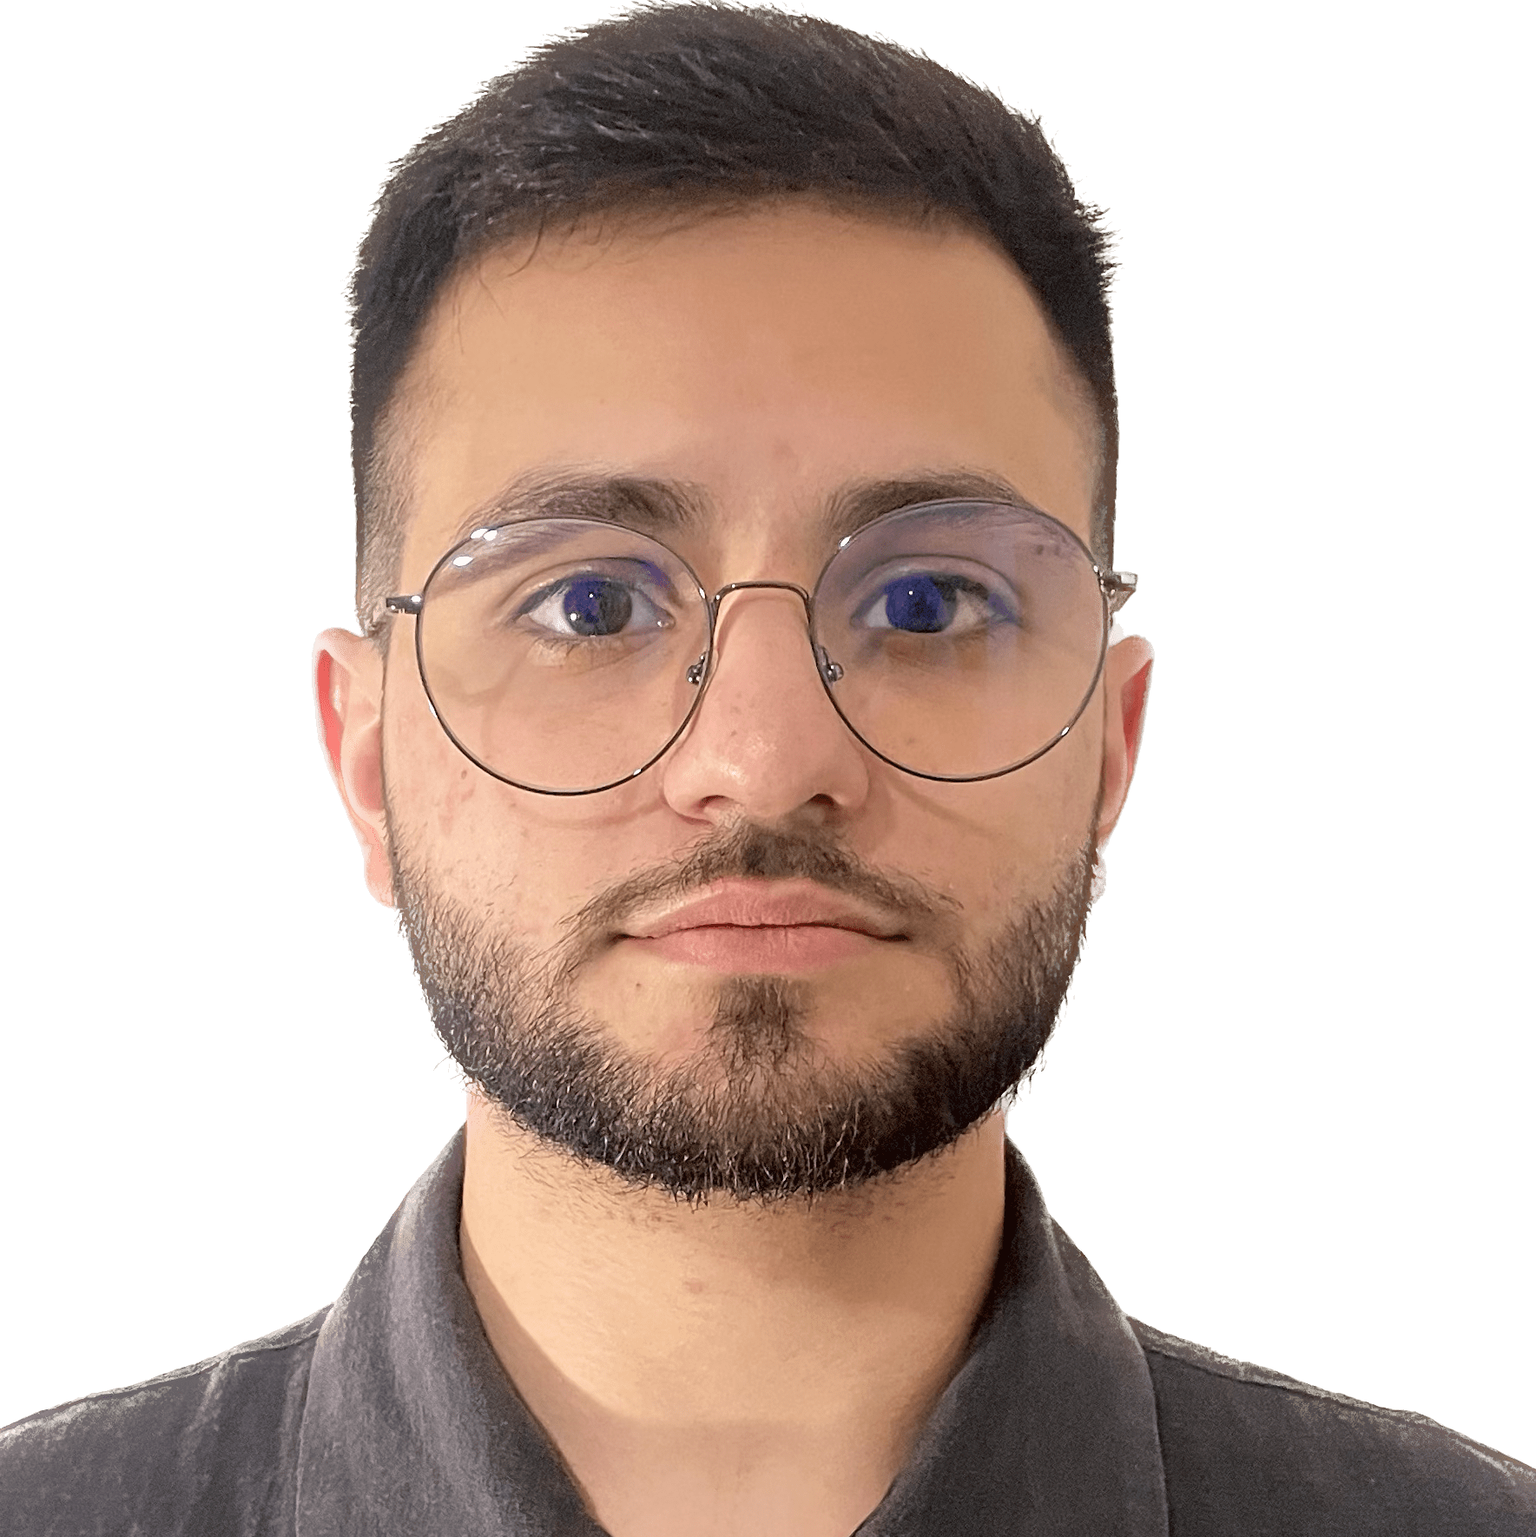
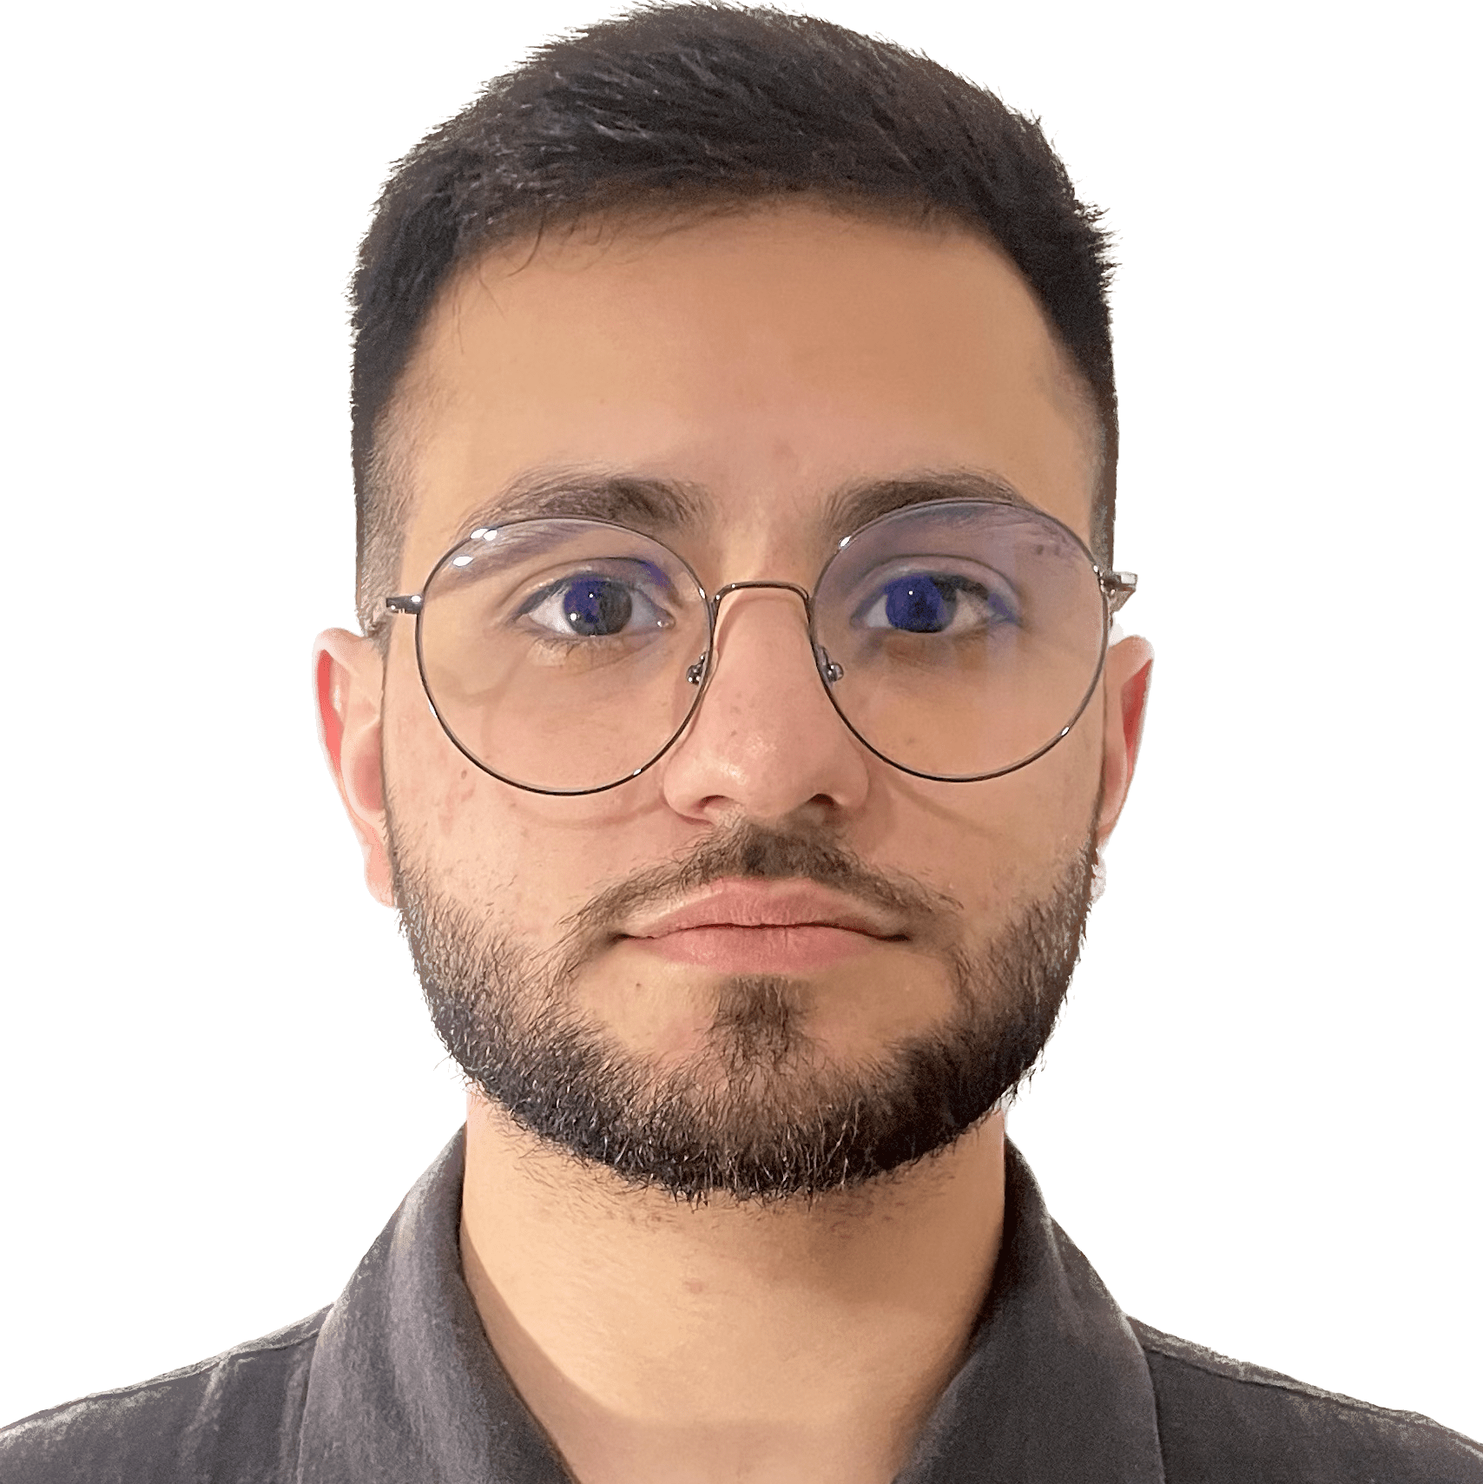
Update the responsive of navbar and add a border to profile image

diff --git a/src/components/tech-stack.tsx b/src/components/tech-stack.tsx
@@ -33,7 +33,8 @@ function TechStack() {
           <div className="flex">
             <button
               className="relative p-1 isolation-auto z-10 rounded-md
-    before:absolute before:w-full before:transition-all before:duration-400 before:hover:w-full before:-right-full before:hover:right-0 before:rounded-full  before:bg-violet-500 before:dark:bg-violet-400 before:-z-10  before:aspect-square before:hover:scale-150 overflow-hidden before:hover:duration-400"
+                before:absolute before:w-full before:transition-all before:duration-400 before:hover:w-full before:-right-full before:hover:right-0 before:rounded-full
+              before:bg-violet-500 before:dark:bg-violet-400 before:-z-10  before:aspect-square before:hover:scale-150 overflow-hidden before:hover:duration-400"
               onClick={() => setSelectedTech('html')}
             >
               <Image
@@ -47,7 +48,8 @@ function TechStack() {
             <Separator orientation="vertical" className="h-7 mx-1" />
             <button
               className="relative p-1 isolation-auto z-10 rounded-md
-    before:absolute before:w-full before:transition-all before:duration-400 before:hover:w-full before:-right-full before:hover:right-0 before:rounded-full  before:bg-violet-500 before:dark:bg-violet-400 before:-z-10  before:aspect-square before:hover:scale-150 overflow-hidden before:hover:duration-400"
+                before:absolute before:w-full before:transition-all before:duration-400 before:hover:w-full before:-right-full before:hover:right-0 before:rounded-full
+              before:bg-violet-500 before:dark:bg-violet-400 before:-z-10  before:aspect-square before:hover:scale-150 overflow-hidden before:hover:duration-400"
               onClick={() => setSelectedTech('js')}
             >
               <Image
@@ -61,7 +63,8 @@ function TechStack() {
             <Separator orientation="vertical" className="h-7 mx-1" />
             <button
               className="relative p-1 isolation-auto z-10 rounded-md
-    before:absolute before:w-full before:transition-all before:duration-400 before:hover:w-full before:-right-full before:hover:right-0 before:rounded-full  before:bg-violet-500 before:dark:bg-violet-400 before:-z-10  before:aspect-square before:hover:scale-150 overflow-hidden before:hover:duration-400"
+                before:absolute before:w-full before:transition-all before:duration-400 before:hover:w-full before:-right-full before:hover:right-0 before:rounded-full
+              before:bg-violet-500 before:dark:bg-violet-400 before:-z-10  before:aspect-square before:hover:scale-150 overflow-hidden before:hover:duration-400"
               onClick={() => setSelectedTech('tailwind')}
             >
               <Image
@@ -75,7 +78,8 @@ function TechStack() {
             <Separator orientation="vertical" className="h-7 mx-1" />
             <button
               className="relative p-1 isolation-auto z-10 rounded-md
-    before:absolute before:w-full before:transition-all before:duration-400 before:hover:w-full before:-right-full before:hover:right-0 before:rounded-full  before:bg-violet-500 before:dark:bg-violet-400 before:-z-10  before:aspect-square before:hover:scale-150 overflow-hidden before:hover:duration-400"
+                before:absolute before:w-full before:transition-all before:duration-400 before:hover:w-full before:-right-full before:hover:right-0 before:rounded-full
+              before:bg-violet-500 before:dark:bg-violet-400 before:-z-10  before:aspect-square before:hover:scale-150 overflow-hidden before:hover:duration-400"
               onClick={() => setSelectedTech('react')}
             >
               <Image
@@ -89,7 +93,8 @@ function TechStack() {
             <Separator orientation="vertical" className="h-7 mx-1" />
             <button
               className="relative p-1 isolation-auto z-10 rounded-md
-    before:absolute before:w-full before:transition-all before:duration-400 before:hover:w-full before:-right-full before:hover:right-0 before:rounded-full  before:bg-violet-500 before:dark:bg-violet-400 before:-z-10  before:aspect-square before:hover:scale-150 overflow-hidden before:hover:duration-400"
+                before:absolute before:w-full before:transition-all before:duration-400 before:hover:w-full before:-right-full before:hover:right-0 before:rounded-full 
+              before:bg-violet-500 before:dark:bg-violet-400 before:-z-10  before:aspect-square before:hover:scale-150 overflow-hidden before:hover:duration-400"
               onClick={() => setSelectedTech('node')}
             >
               <Image
@@ -103,7 +108,8 @@ function TechStack() {
             <Separator orientation="vertical" className="h-7 mx-1" />
             <button
               className="relative p-1 isolation-auto z-10 rounded-md
-    before:absolute before:w-full before:transition-all before:duration-400 before:hover:w-full before:-right-full before:hover:right-0 before:rounded-full  before:bg-violet-500 before:dark:bg-violet-400 before:-z-10  before:aspect-square before:hover:scale-150 overflow-hidden before:hover:duration-400"
+                before:absolute before:w-full before:transition-all before:duration-400 before:hover:w-full before:-right-full before:hover:right-0 before:rounded-full 
+              before:bg-violet-500 before:dark:bg-violet-400 before:-z-10  before:aspect-square before:hover:scale-150 overflow-hidden before:hover:duration-400"
               onClick={() => setSelectedTech('sql')}
             >
               <Image
@@ -117,7 +123,8 @@ function TechStack() {
             <Separator orientation="vertical" className="h-7 mx-1" />
             <button
               className="relative p-1 isolation-auto z-10 rounded-md
-    before:absolute before:w-full before:transition-all before:duration-400 before:hover:w-full before:-right-full before:hover:right-0 before:rounded-full  before:bg-violet-500 before:dark:bg-violet-400 before:-z-10  before:aspect-square before:hover:scale-150 overflow-hidden before:hover:duration-400"
+                before:absolute before:w-full before:transition-all before:duration-400 before:hover:w-full before:-right-full before:hover:right-0 before:rounded-full
+              before:bg-violet-500 before:dark:bg-violet-400 before:-z-10  before:aspect-square before:hover:scale-150 overflow-hidden before:hover:duration-400"
               onClick={() => setSelectedTech('git')}
             >
               <Image
@@ -132,7 +139,8 @@ function TechStack() {
           <div className="mt-1 flex">
             <button
               className="relative p-1 isolation-auto z-10 rounded-md
-    before:absolute before:w-full before:transition-all before:duration-400 before:hover:w-full before:-right-full before:hover:right-0 before:rounded-full  before:bg-violet-500 before:dark:bg-violet-400 before:-z-10  before:aspect-square before:hover:scale-150 overflow-hidden before:hover:duration-400"
+                before:absolute before:w-full before:transition-all before:duration-400 before:hover:w-full before:-right-full before:hover:right-0 before:rounded-full
+              before:bg-violet-500 before:dark:bg-violet-400 before:-z-10  before:aspect-square before:hover:scale-150 overflow-hidden before:hover:duration-400"
               onClick={() => setSelectedTech('css')}
             >
               <Image
@@ -146,7 +154,8 @@ function TechStack() {
             <Separator orientation="vertical" className="h-7 mx-1" />
             <button
               className="relative p-1 isolation-auto z-10 rounded-md
-    before:absolute before:w-full before:transition-all before:duration-400 before:hover:w-full before:-right-full before:hover:right-0 before:rounded-full  before:bg-violet-500 before:dark:bg-violet-400 before:-z-10  before:aspect-square before:hover:scale-150 overflow-hidden before:hover:duration-400"
+                before:absolute before:w-full before:transition-all before:duration-400 before:hover:w-full before:-right-full before:hover:right-0 before:rounded-full
+              before:bg-violet-500 before:dark:bg-violet-400 before:-z-10  before:aspect-square before:hover:scale-150 overflow-hidden before:hover:duration-400"
               onClick={() => setSelectedTech('ts')}
             >
               <Image
@@ -160,7 +169,8 @@ function TechStack() {
             <Separator orientation="vertical" className="h-7 mx-1" />
             <button
               className="relative p-1 isolation-auto z-10 rounded-md
-    before:absolute before:w-full before:transition-all before:duration-400 before:hover:w-full before:-right-full before:hover:right-0 before:rounded-full  before:bg-violet-500 before:dark:bg-violet-400 before:-z-10  before:aspect-square before:hover:scale-150 overflow-hidden before:hover:duration-400"
+                before:absolute before:w-full before:transition-all before:duration-400 before:hover:w-full before:-right-full before:hover:right-0 before:rounded-full
+              before:bg-violet-500 before:dark:bg-violet-400 before:-z-10  before:aspect-square before:hover:scale-150 overflow-hidden before:hover:duration-400"
               onClick={() => setSelectedTech('sass')}
             >
               <div>
@@ -176,7 +186,8 @@ function TechStack() {
             <Separator orientation="vertical" className="h-7 mx-1" />
             <button
               className="relative p-1 isolation-auto z-10 rounded-md
-    before:absolute before:w-full before:transition-all before:duration-400 before:hover:w-full before:-right-full before:hover:right-0 before:rounded-full  before:bg-violet-500 before:dark:bg-violet-400 before:-z-10  before:aspect-square before:hover:scale-150 overflow-hidden before:hover:duration-400"
+                before:absolute before:w-full before:transition-all before:duration-400 before:hover:w-full before:-right-full before:hover:right-0 before:rounded-full
+                before:bg-violet-500 before:dark:bg-violet-400 before:-z-10  before:aspect-square before:hover:scale-150 overflow-hidden before:hover:duration-400"
               onClick={() => setSelectedTech('next')}
             >
               <Image
@@ -190,7 +201,8 @@ function TechStack() {
             <Separator orientation="vertical" className="h-7 mx-1" />
             <button
               className="relative p-1 isolation-auto z-10 rounded-md
-    before:absolute before:w-full before:transition-all before:duration-400 before:hover:w-full before:-right-full before:hover:right-0 before:rounded-full  before:bg-violet-500 before:dark:bg-violet-400 before:-z-10  before:aspect-square before:hover:scale-150 overflow-hidden before:hover:duration-400"
+                before:absolute before:w-full before:transition-all before:duration-400 before:hover:w-full before:-right-full before:hover:right-0 before:rounded-full
+                before:bg-violet-500 before:dark:bg-violet-400 before:-z-10  before:aspect-square before:hover:scale-150 overflow-hidden before:hover:duration-400"
               onClick={() => setSelectedTech('nest')}
             >
               <Image
@@ -204,7 +216,8 @@ function TechStack() {
             <Separator orientation="vertical" className="h-7 mx-1" />
             <button
               className="relative p-1 isolation-auto z-10 rounded-md
-    before:absolute before:w-full before:transition-all before:duration-400 before:hover:w-full before:-right-full before:hover:right-0 before:rounded-full  before:bg-violet-500 before:dark:bg-violet-400 before:-z-10  before:aspect-square before:hover:scale-150 overflow-hidden before:hover:duration-400"
+                before:absolute before:w-full before:transition-all before:duration-400 before:hover:w-full before:-right-full before:hover:right-0 before:rounded-full
+                before:bg-violet-500 before:dark:bg-violet-400 before:-z-10  before:aspect-square before:hover:scale-150 overflow-hidden before:hover:duration-400"
               onClick={() => setSelectedTech('mysql')}
             >
               <Image
@@ -218,7 +231,8 @@ function TechStack() {
             <Separator orientation="vertical" className="h-7 mx-1" />
             <button
               className="relative p-1 isolation-auto z-10 rounded-md
-    before:absolute before:w-full before:transition-all before:duration-400 before:hover:w-full before:-right-full before:hover:right-0 before:rounded-full  before:bg-violet-500 before:dark:bg-violet-400 before:-z-10  before:aspect-square before:hover:scale-150 overflow-hidden before:hover:duration-400"
+                before:absolute before:w-full before:transition-all before:duration-400 before:hover:w-full before:-right-full before:hover:right-0 before:rounded-full
+                before:bg-violet-500 before:dark:bg-violet-400 before:-z-10  before:aspect-square before:hover:scale-150 overflow-hidden before:hover:duration-400"
               onClick={() => setSelectedTech('python')}
             >
               <div>
@@ -234,7 +248,7 @@ function TechStack() {
           </div>
         </div>
       </div>
-      <div className="mt-10 text-md items-start text-muted-foreground">
+      <div className="mt-10 text-md sm:text-lg items-start text-muted-foreground">
         {selectedTech
           ? techDescriptions[selectedTech]
           : 'Click in a tech icon to know more about it.'}

diff --git a/src/app/page.tsx b/src/app/page.tsx
@@ -9,11 +9,11 @@ export default function Home() {
     <div className="flex flex-col justify-center items-center mt-10 sm:mt-20 opacity-0 transform translate-y-10 animate-fadeInSlideUp">
       <div className="flex flex-col-reverse sm:flex-row items-start">
         <div className="flex flex-col">
-          <div className="items-center text-center max-w-4xl w-full">
-            <h1 className="text-2xl sm:text-3xl md:text-4xl max-w-xl text-justify leading-relaxed">
+          <div className="sm:items-center sm:text-center max-w-4xl w-full">
+            <h1 className="text-2xl sm:text-3xl md:text-4xl max-w-xl sm:text-justify leading-relaxed">
               Welcome to my portfolio website!
             </h1>
-            <h2 className="text-xl sm:text-2xl mt-7 sm:mt-4 max-w-xl text-justify leading-relaxed">
+            <h2 className="text-xl sm:text-2xl mt-7 sm:mt-4 max-w-xl sm:text-justify leading-relaxed">
               I'm happy you've visited. I'm{' '}
               <span className="dark:text-violet-400 text-violet-700 animate-fadeIn">
                 Giovanni Vicentin
@@ -28,12 +28,12 @@ export default function Home() {
           </div>
           <div className="mt-7 sm:mt-4 flex flex-col md:flex-row">
             <Link href="/journey" prefetch>
-              <Button className="text-sm md:text-md w-full md:w-auto transition-transform transform hover:scale-105 hover:dark:bg-violet-400 hover:bg-violet-700">
+              <Button className="text-md md:text-lg w-full md:w-auto transition-transform transform hover:scale-105 hover:dark:bg-violet-400 hover:bg-violet-700">
                 Learn more about me
               </Button>
             </Link>
             <a href="/Giovanni_s_Resume.pdf" download="Giovanni_Resume.pdf">
-              <Button className="text-sm md:text-md mt-4 md:mt-0 md:ml-4 w-full md:w-auto transition-transform transform hover:scale-105 hover:dark:bg-violet-400 hover:bg-violet-700">
+              <Button className="text-md md:text-lg mt-4 md:mt-0 md:ml-4 w-full md:w-auto transition-transform transform hover:scale-105 hover:dark:bg-violet-400 hover:bg-violet-700">
                 Download CV
               </Button>
             </a>
@@ -58,7 +58,7 @@ export default function Home() {
           width={150}
           height={150}
           alt="Profile Image"
-          className="rounded-full mx-auto mb-10 sm:mx-0 sm:mb-0"
+          className="rounded-full mx-auto mb-10 sm:mx-0 sm:mb-0 border-collapse border-2 border-primary/50 animate-fadeIn"
           priority
         ></Image>
       </div>

diff --git a/src/components/navbar.tsx b/src/components/navbar.tsx
@@ -5,11 +5,11 @@ import Link from 'next/link';
 
 function Navbar() {
   return (
-    <nav className="w-full max-w-4xl flex flex-wrap items-center justify-center border-b border-muted-foreground/40 p-1">
+    <nav className="w-full flex flex-wrap items-center justify-center border-b border-muted-foreground/40 p-1 sm:gap-x-1 md:gap-x-2">
       <Link href="/">
         <Button
           variant="ghost"
-          className="p-2 md:p-3 lg:p-4 text-xs sm:text-sm md:text-md lg:text-lg w-18 sm:w-20 md:w-28 lg:w-32 hover:dark:text-violet-400 hover:text-violet-700 hover:bg-transparent"
+          className="px-3 md:px-4 lg:px-6 text-xs sm:text-lg xl:text-xl w-18 sm:w-20 lg:w-32 hover:dark:text-violet-400 hover:text-violet-700 hover:bg-transparent"
         >
           Home
         </Button>
@@ -23,7 +23,7 @@ function Navbar() {
       <Link href="/journey">
         <Button
           variant="ghost"
-          className="p-2 md:p-3 lg:p-4 text-xs sm:text-sm md:text-md lg:text-lg w-18 sm:w-20 md:w-28 lg:w-32 hover:dark:text-violet-400 hover:text-violet-700 hover:bg-transparent"
+          className="px-3 md:px-4 lg:px-6 text-xs sm:text-lg xl:text-xl w-18 sm:w-20 lg:w-32 hover:dark:text-violet-400 hover:text-violet-700 hover:bg-transparent"
         >
           Journey
         </Button>
@@ -37,7 +37,7 @@ function Navbar() {
       <Link href="/projects">
         <Button
           variant="ghost"
-          className="p-2 md:p-3 lg:p-4 text-xs sm:text-sm md:text-md lg:text-lg w-18 sm:w-20 md:w-28 lg:w-32 hover:dark:text-violet-400 hover:text-violet-700 hover:bg-transparent"
+          className="px-3 md:px-4 lg:px-6 text-xs sm:text-lg xl:text-xl w-18 sm:w-20 lg:w-32 hover:dark:text-violet-400 hover:text-violet-700 hover:bg-transparent"
         >
           Projects
         </Button>
@@ -51,7 +51,7 @@ function Navbar() {
       <Link href="/contact">
         <Button
           variant="ghost"
-          className="p-2 md:p-3 lg:p-4 text-xs sm:text-sm md:text-md lg:text-lg w-18 sm:w-20 md:w-28 lg:w-32 hover:dark:text-violet-400 hover:text-violet-700 hover:bg-transparent"
+          className="px-3 md:px-4 lg:px-6 text-xs sm:text-lg xl:text-xl w-18 sm:w-20 lg:w-32 hover:dark:text-violet-400 hover:text-violet-700 hover:bg-transparent"
         >
           Contact
         </Button>

diff --git a/src/app/layout.tsx b/src/app/layout.tsx
@@ -75,15 +75,19 @@ export default function RootLayout({
           enableSystem
           disableTransitionOnChange
         >
-          <div className={`w-full max-w-4xl text-sm mt-6 ${sintony.className}`}>
+          <div
+            className={`w-full max-w-full sm:max-w-4xl text-sm mt-6 ${sintony.className}`}
+          >
             <Navbar />
           </div>
-          <main className="flex-1 w-full max-w-5xl px-4 md:px-0">
+          <main className="flex-1 w-full max-w-full px-4 md:px-0">
             {children}
           </main>
         </ThemeProvider>
         <Analytics />
-        <footer className={`w-full max-w-4xl mb-6 ${sintony.className}`}>
+        <footer
+          className={`w-full max-w-full sm:max-w-4xl mb-6 ${sintony.className}`}
+        >
           <Footer />
         </footer>
       </body>

diff --git a/src/components/mode-toggle.tsx b/src/components/mode-toggle.tsx
@@ -22,8 +22,8 @@ export function ModeToggle() {
           size="icon"
           className="hover:dark:text-violet-400 hover:text-violet-700 hover:bg-transparent"
         >
-          <Sun className="h-3.5 w-3.5 md:w-5 md:h-5 rotate-0 scale-100 transition-all dark:-rotate-90 dark:scale-0" />
-          <Moon className="absolute h-3.5 w-3.5 md:w-5 md:h-5 rotate-90 scale-0 transition-all dark:rotate-0 dark:scale-100" />
+          <Sun className="h-3.5 w-3.5 sm:w-5 sm:h-5 xl:h-6 xl:w-6 rotate-0 scale-100 transition-all dark:-rotate-90 dark:scale-0" />
+          <Moon className="absolute h-3.5 w-3.5 sm:w-5 sm:h-5 xl:h-6 xl:w-6 rotate-90 scale-0 transition-all dark:rotate-0 dark:scale-100" />
           <span className="sr-only">Toggle theme</span>
         </Button>
       </DropdownMenuTrigger>

diff --git a/src/components/footer.tsx b/src/components/footer.tsx
@@ -1,7 +1,7 @@
 function Footer() {
   return (
     <footer className="w-full px-4 pt-2 md:px-6 lg:px-10 flex justify-center items-center border-t border-muted-foreground/40 mt-5">
-      <div className="max-w-5xl w-full flex flex-col md:flex-row justify-between items-center text-sm md:text-md">
+      <div className="w-full flex flex-col md:flex-row justify-between items-center text-sm md:text-md">
         <p className="text-muted-foreground font-mono">
           © 2023 Giovanni Vicentin
         </p>
